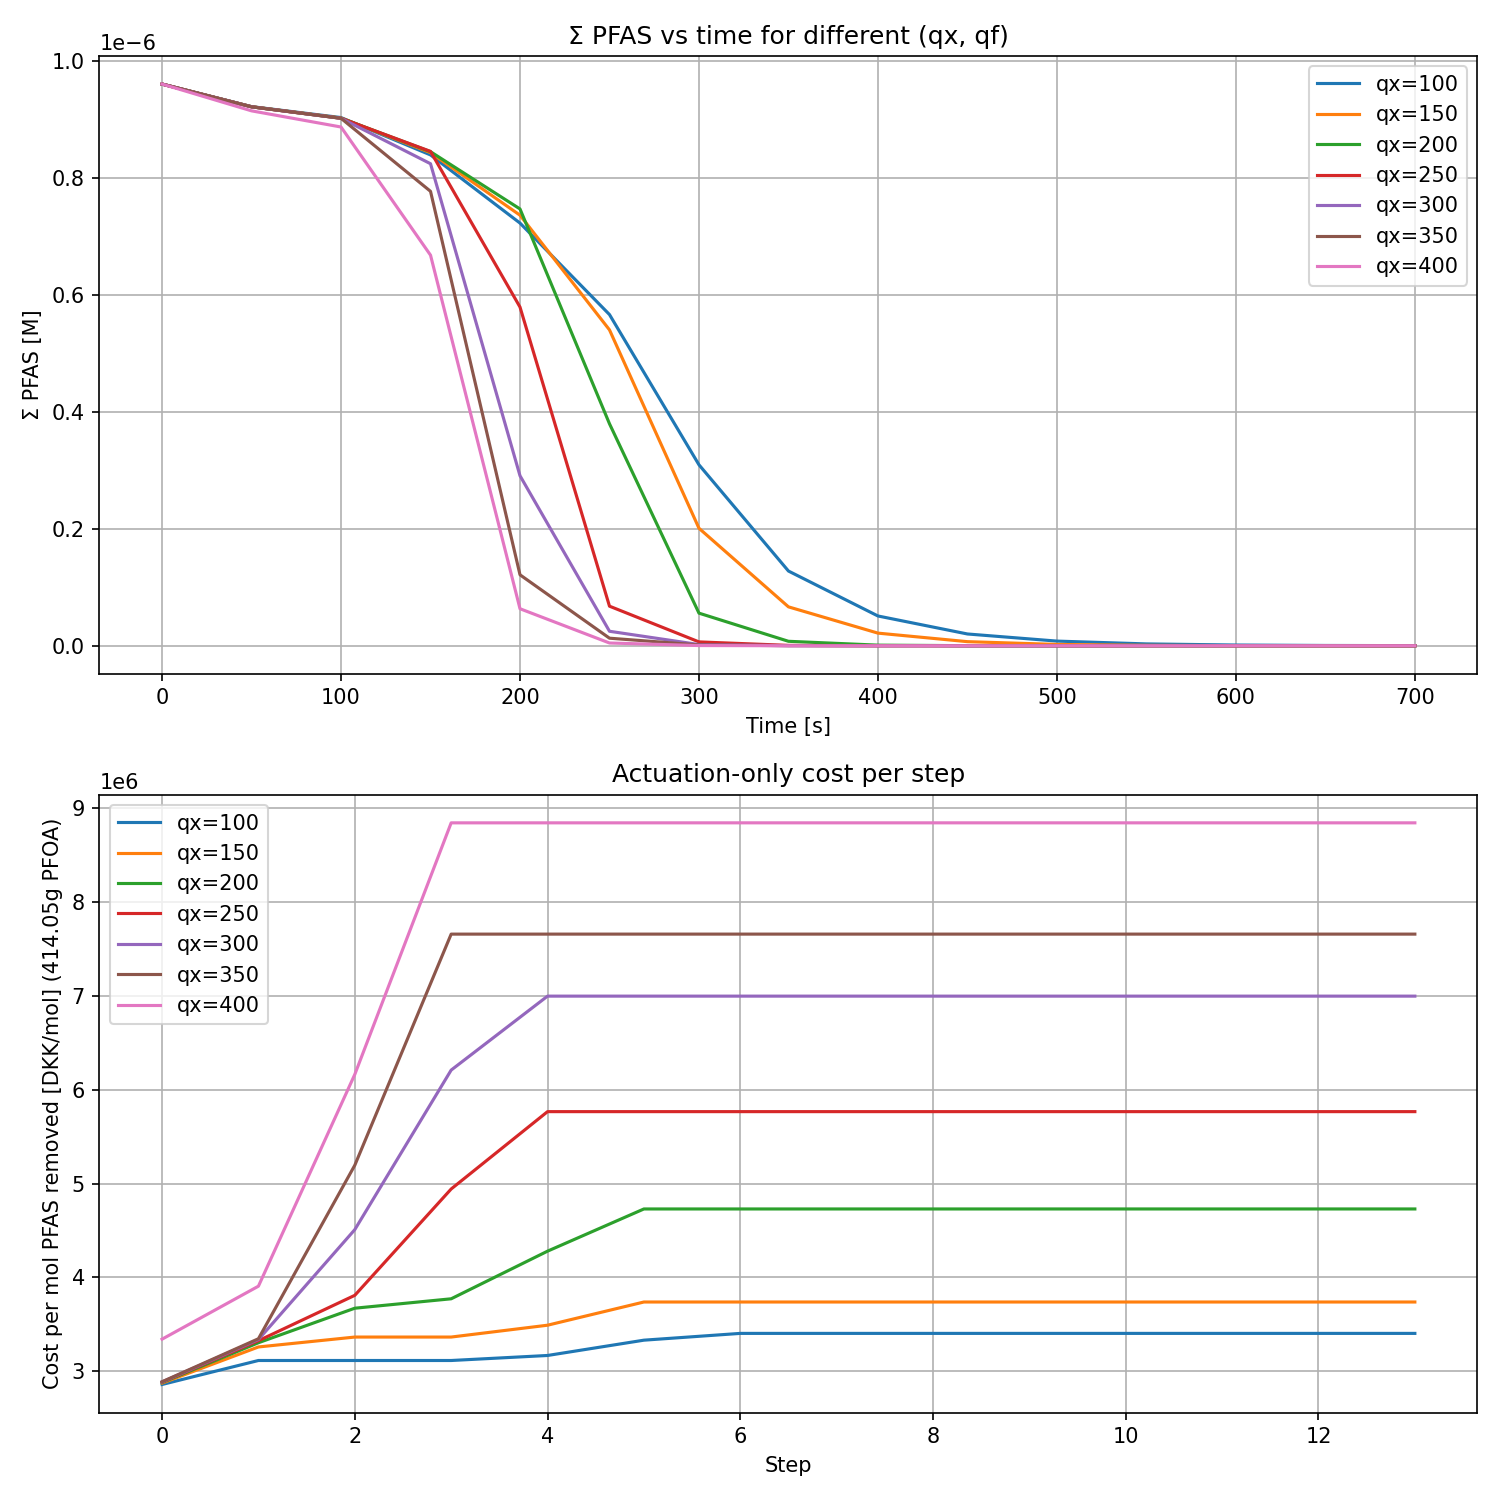
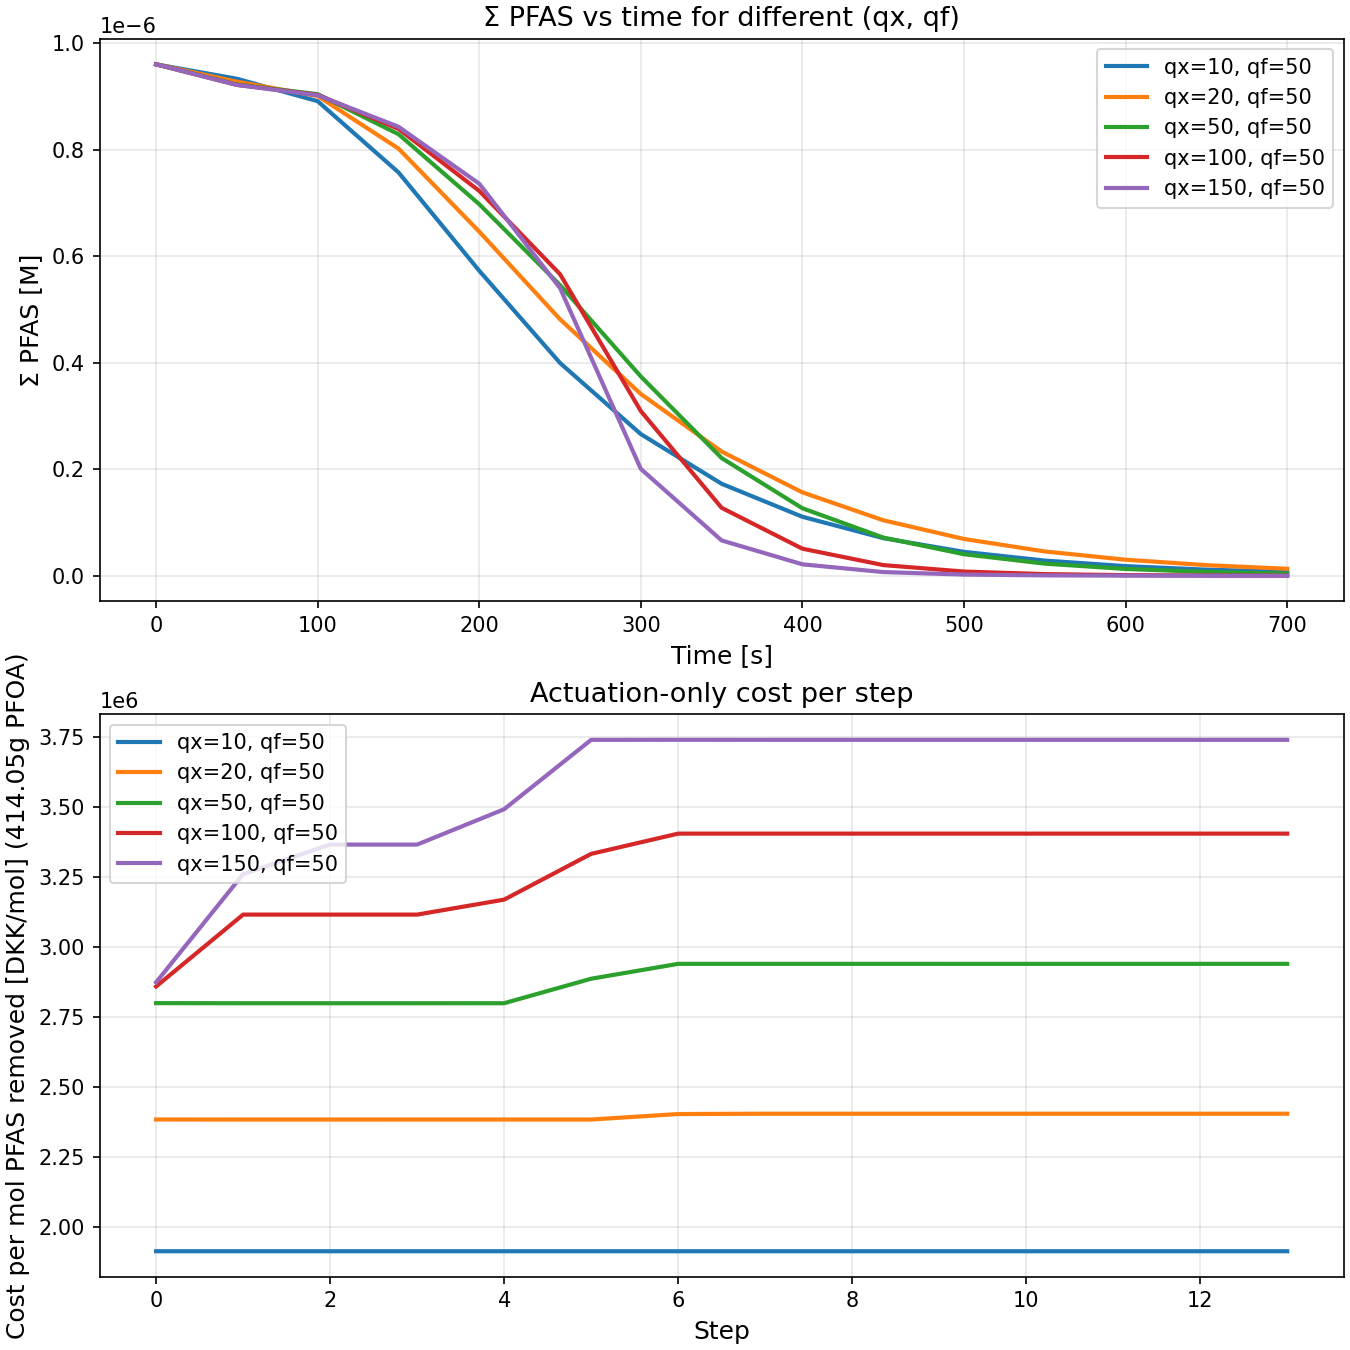
Changed cost sweep and included plots for actuation

diff --git a/Controller/sweep_costs.py b/Controller/sweep_costs.py
@@ -175,27 +175,37 @@ def run_sim(qx_val, qf_val, steps=50):
         custom_costs.append((cost_mag + cost_pH_change)*1/9.6e-7)
         prev_u = u
 
-    return all_times, all_states, np.array(custom_costs)
+    return all_times, all_states, np.array(custom_costs), u_hist
 
 
 def main():
-    qx_list = [100, 150, 200, 250, 300, 350, 400]
-    qf_list = [500]
+    qx_list = [10, 20, 50, 100, 150]
+    qf_list = [50]
 
     results = {}
     for qx in qx_list:
         for qf in qf_list:
             print(f"Running qx={qx}, qf={qf} ...")
-            t, X, costs = run_sim(qx, qf, steps=14)
-            results[(qx, qf)] = (t, X, costs)
+            t, X, costs, u_hist = run_sim(qx, qf, steps=14)
+            results[(qx, qf)] = (t, X, costs,u_hist)
 
-    fig, axes = plt.subplots(2, 1, figsize=(10, 10))
+    plt.rcParams.update({
+        "axes.labelsize": 12,
+        "axes.titlesize": 13,
+        "legend.fontsize": 10,
+        "xtick.labelsize": 10,
+        "ytick.labelsize": 10,
+        "lines.linewidth": 2.0,
+        "grid.alpha": 0.3,
+    })
+
+    fig, axes = plt.subplots(2, 1, figsize=(9, 9), constrained_layout=True)
 
     # Plot ΣPFAS over time
     ax0 = axes[0]
-    for (qx, qf), (t, X, _) in results.items():
+    for (qx, qf), (t, X, _, _) in results.items():
         Z = np.sum(X[:, :7], axis=1)
-        ax0.plot(t, Z, label=f"qx={qx}")
+        ax0.plot(t, Z, label=f"qx={qx}, qf={qf}")
     ax0.set_xlabel("Time [s]")
     ax0.set_ylabel("Σ PFAS [M]")
     ax0.set_title("Σ PFAS vs time for different (qx, qf)")
@@ -204,20 +214,40 @@ def main():
 
     # Plot actuation-only costs per step
     ax1 = axes[1]
-    for (qx, qf), (_, _, costs) in results.items():
-        ax1.plot(np.arange(len(costs)), costs, label=f"qx={qx}")
+    for (qx, qf), (_, _, costs,_) in results.items():
+        ax1.plot(np.arange(len(costs)), costs, label=f"qx={qx}, qf={qf}")
     ax1.set_xlabel("Step")
     ax1.set_ylabel("Cost per mol PFAS removed [DKK/mol] (414.05g PFOA)")
     ax1.set_title("Actuation-only cost per step")
     ax1.grid(True)
     ax1.legend()
 
-    plt.tight_layout()
     out_path = Path(__file__).resolve().parent.parent / "sweep_costs.png"
     plt.savefig(out_path, dpi=150)
     print(f"Saved figure to {out_path}")
-
     plt.show()
+
+    # Per-actuation subplots (SO3, Cl, pH, Intensity)
+    fig_act, axes_act = plt.subplots(4, 1, figsize=(9, 10), sharex=True, constrained_layout=True)
+    labels = ["SO3 [M]", "Cl [M]", "pH [-]", "Intensity [-]"]
+    for idx, ax in enumerate(axes_act):
+        for (qx, qf), (t, X, _, u_hist) in results.items():
+            # u_hist shape: (steps, 4)
+            ax.plot(t[:-1], u_hist[:, idx], label=f"qx={qx}, qf={qf}" if idx == 0 else None)
+        ax.set_ylabel(labels[idx])
+        ax.grid(True)
+        if idx == 0:
+            ax.set_title("Inputs vs time for different qx")
+    axes_act[-1].set_xlabel("Time [s]")
+    axes_act[0].legend()
+    # intensity axis (last subplot) limited to [0, 1]
+    axes_act[-1].set_ylim(0.0, 1.1)
+    out_path_act = Path(__file__).resolve().parent.parent / "sweep_costs_inputs.png"
+    plt.savefig(out_path_act, dpi=150)
+    print(f"Saved input figure to {out_path_act}")
+    plt.show()
+    
+
 
 
 if __name__ == "__main__":

diff --git a/.zencoder/rules/repo.md b/.zencoder/rules/repo.md
@@ -1,0 +1,118 @@
+---
+description: Repository Information Overview
+alwaysApply: true
+---
+
+# PFASProject Information
+
+## Summary
+Physics-Informed Neural Network (PINN) based project for PFAS degradation modeling and control. Implements Model Predictive Control (MPC) using CasADi for UV/peroxide treatment systems, with State Estimation via Extended Kalman Filter (EKF). Includes hardware drivers for pumps, pH/fluoride sensors, and flow controllers.
+
+## Structure
+- **PFAS_CTRL/**: Main package with system control and hardware drivers (pump WX10, GPIO, flow sensors, pH/fluoride analyzers)
+- **Controller/**: MPC implementation using CasADi symbolic math, simulation and live plotting
+- **Models_Single_Scripts/ & Models_Multiple_Scripts/**: PINN model implementations (TensorFlow and PyTorch)
+- **predictor/**: State estimation with HPINN, EKF, Jacobian computation, and covariance building
+- **config/**: YAML configuration files for parameters, initial conditions, and control settings
+- **tests/**: Test suite for system and drivers
+- **data/**: Sample CSV data files
+
+## Language & Runtime
+**Language**: Python  
+**Version**: 3.12.3  
+**Virtual Environment**: `.venv/` (already configured)  
+**Package Manager**: pip
+
+## Dependencies
+
+**Core Libraries**:
+- **tensorflow**: Deep learning and PINN model implementation
+- **casadi**: Symbolic math and optimization (MPC formulation)
+- **numpy**: Numerical computations
+- **pandas**: Data handling and CSV operations
+- **matplotlib**: Plotting and visualization
+- **pyyaml**: Configuration file parsing
+
+**CLI & Control**:
+- **typer**: CLI framework for command-line interface
+- **pyserial**: Hardware serial communication (sensors/pumps)
+
+**Optional**:
+- **pytorch**: Alternative to TensorFlow for PINN models
+- **scipy**: Scientific computing utilities
+
+## Build & Installation
+
+```bash
+# Create and activate virtual environment
+python3.12 -m venv .venv
+source .venv/bin/activate
+
+# Install dependencies
+pip install -r requirements.txt  # (if available)
+# Or install manually:
+pip install tensorflow casadi numpy pandas matplotlib pyyaml typer pyserial
+```
+
+## Main Entry Points
+
+**CLI Application** (`PFAS_CTRL/cli.py`):
+```bash
+python -m PFAS_CTRL.cli speed <rpm>      # Set pump speed
+python -m PFAS_CTRL.cli stop             # Stop pump
+python -m PFAS_CTRL.cli prime            # Prime mode
+python -m PFAS_CTRL.cli state            # Read pump state
+```
+
+**Configuration**: Uses `config/ctrl_config.yaml` for pump and hardware settings
+
+**Simulations**:
+- `Controller/simulate_system.py`: Full system MPC simulation
+- `Controller/simulate_full_system.py`: Extended simulation with visualization
+- `simulated_predictor.py`: HPINN predictor testing
+
+## Testing
+
+**Location**: `tests/` directory  
+**Test Files**:
+- `test_system.py`: System controller and integration tests
+- `test_drivers.py`: Hardware driver tests
+- `data.py`: Data utility tests
+- `logger.py` & `logger_test_system.py`: Logging tests
+
+**Run Tests**:
+```bash
+python -m pytest tests/
+# Or directly:
+python tests/test_system.py
+python tests/test_drivers.py
+```
+
+## Configuration
+
+YAML-based configuration in `config/`:
+- **ctrl_config.yaml**: Pump serial port, baudrate, and communication settings
+- **physichal_paramters.yaml**: Physical constants for degradation kinetics
+- **initial_conditions.yaml**: System initial state values
+- **trained_params.yaml**: Pre-trained PINN parameters
+- **covariance_params.yaml**: EKF covariance matrices
+
+Environment variable for config override:
+```bash
+export CTRL_CONFIG=/path/to/custom/config.yaml
+```
+
+## Model Types
+
+**Single-Batch Models** (`Models_Single_Scripts/`):
+- TensorFlow with fixed/adaptive hydrated electron concentration (`c_eaq`)
+- PyTorch implementations available
+
+**Multi-Batch Models** (`Models_Multiple_Scripts/`):
+- TensorFlow training on multiple sequences
+- Integration with RK4 Runge-Kutta solver
+- Adaptive parameter tuning
+
+**Predictor** (`predictor/`):
+- HPINN predictor with Runge-Kutta integration
+- EKF for sensor correction and state estimation
